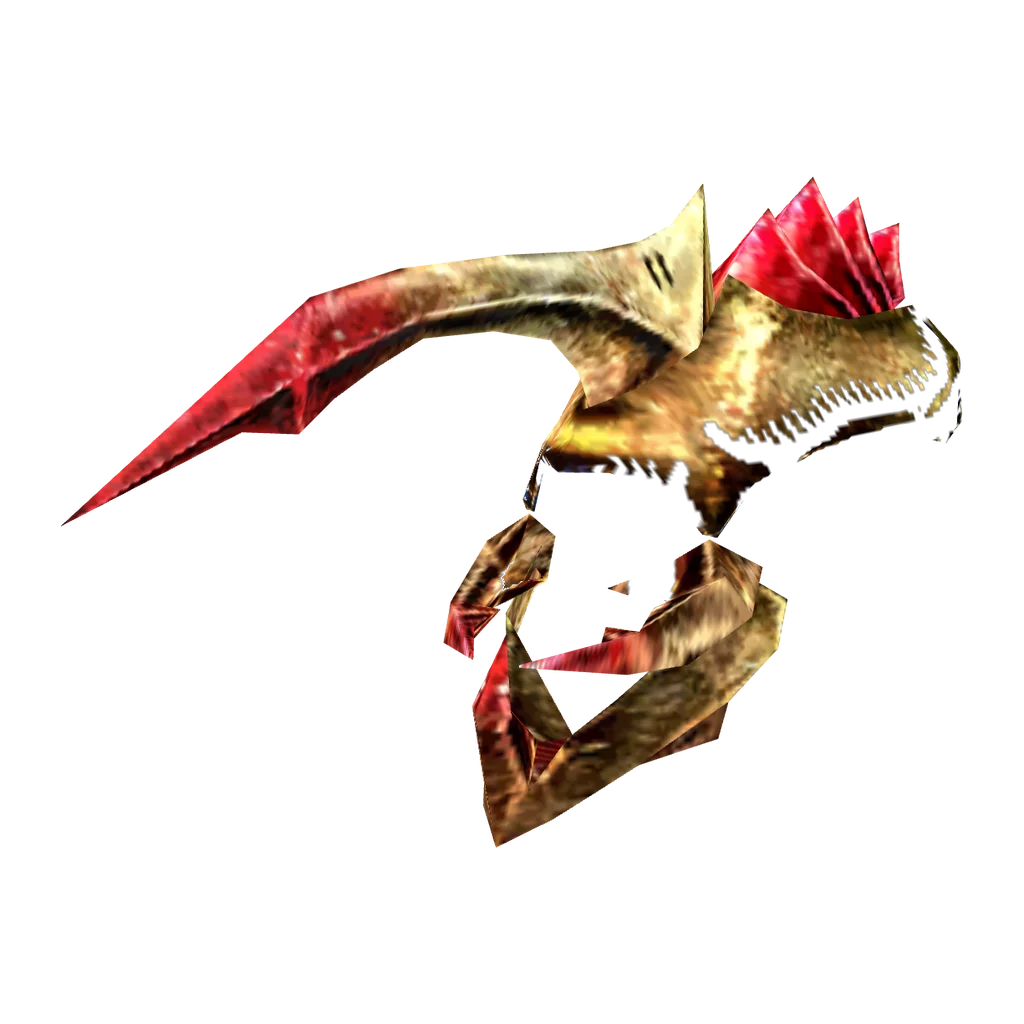
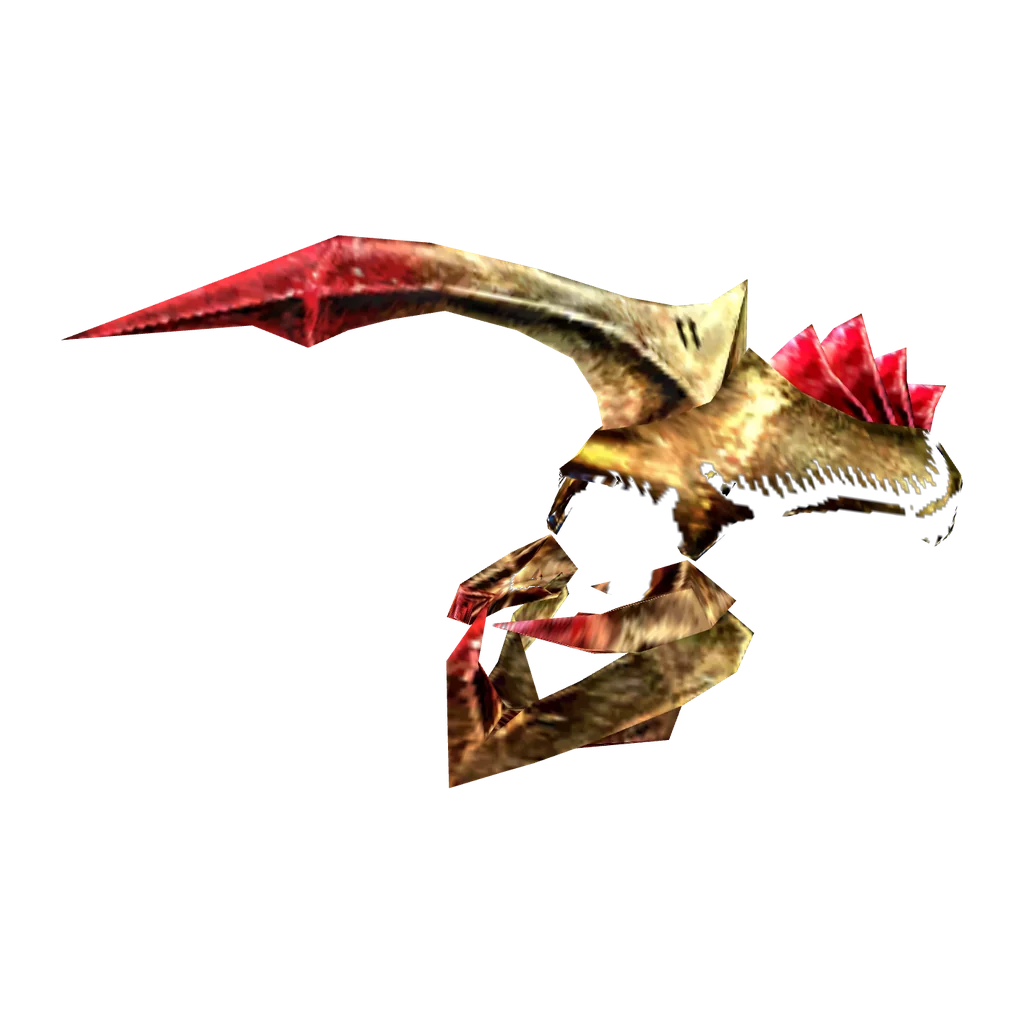
Render De Rol Le's shell at the body's angle

Changed region(s): [[0.0625, 0.1562, 0.9375, 0.8438]]

diff --git a/docs/MONSTER_CATALOG.md b/docs/MONSTER_CATALOG.md
@@ -340,7 +340,7 @@ did not re-evaluate tiers or change the in-game rotation.
 - 渲染：`npm run generate:monster-renders -- --harness-assets <phantasmal-world>/web/src/jsMain/resources/assets/npcs`（`scripts/render_monster_models.py`）先把档案条目提取到该目录的 `raw/`，再调用 `scripts/render_monster_models.mjs` 在无界面浏览器中驱动 phantasmal-world 的导出入口 `?npcBatch=1`（`window.__renderNpc`），用它自己的蒙皮与 NJM 动画转换摆姿势，分别在黑底与白底上渲染 2048 px；两图之差还原透明度，叠加发光材质保持半透明。结果裁切到模型、居中留边，输出 1024 px 与 160 px WebP，`manifest.json` 记录 SHA-256。该导出入口只存在于本机 phantasmal-world 工作副本，不属于其仓库；重新渲染前需在本机构建并以 `--harness` 指向它。
 - 姿势：默认用模型自己的待机动作（wait / stand / standby 等，Poison Lily 用张开的 `waito`）；EP4 首领一、二阶段分别用 `1st_standby` / `2nd_standby`。De Rol Le（含 Ultimate）用前进动作 `forward` 第 0 帧的伸展身体，模型绕 X 轴抬头 12°，从头部斜前方 45° 取景，与维护者提供的参考图一致。颈部 4 根触手是独立模型 `boss2_b_derorure_tentacle`，游戏运行时挂到本体头部骨骼下的 4 个空节点（骨骼 29–32）；`attach` 按骨骼编号把部件挂到摆好姿势的本体上，触手用自身摆动动作 `tloop` 第 16 帧（向后上方伸展）。Spinner 用 `standby`：其动作类型 `0x2005` 的四元数旋转位于缩放之前，phantasmal-world 原解析顺序（缩放在前）会读错，本机导出入口的构建修正了这一顺序。没有动作的模型用绑定姿势，Hildeblue 借用 Hildebear、Gobooma / Gigobooma 借用 Booma 的同骨架动作。Hidoom 以前的地面物件、Merissa A / AA、Pouilly Slime 的环境反射外壳在导出中会画成不透明色块，按材质序号隐藏。
 - 档案贴图：没有自带贴图包的模型按编号引用同一档案的贴图包（默认第一个，可用 `texture` 指定、`textureOrder` 重排）。提取时把 XVRT 块首尾相接重新打包，因为部分档案的块带对齐填充，顺序读取 IFF 的解析器会只读到第一张贴图；同名的模型与动作（如 `fs_obj_hiraishin_a.nj` / `.njm`）分开索引。解码后的 DXT 贴图使用线性过滤（与游戏一致，避免放大后的像素块）。
-- 组合与特殊材质：`parts` 在同一场景中叠加多个模型（Olga Flow (Form 1) 的本体 `bssgc_pf01_body` 与腿 `bossgc_pf01_leg`，均用空中待机 `skywait`；该姿势按倒挂制作，`rotate` 绕 X 轴翻转 180° 后从 270° 方向取景，剑朝下，与高清图一致；地面待机 `grdwait` 绕 Z 轴翻转 180° 的正面姿势作为 `alternates` 保留，详情页以“地面姿势”按钮切换，列表缩略图只用主渲染）。Bee / Gee 的 `re4_b_bit` 是没有纹理坐标的环境映射模型，`plainMaps` + `planarUv` 按正面投影纹理坐标，显示其漩涡纹理。De Rol Le (Shell) 用头部骨盔 `boss2_b_helm_break`（与 Wiki 截图一致），Ultimate 取 `_a` 档案。
+- 组合与特殊材质：`parts` 在同一场景中叠加多个模型（Olga Flow (Form 1) 的本体 `bssgc_pf01_body` 与腿 `bossgc_pf01_leg`，均用空中待机 `skywait`；该姿势按倒挂制作，`rotate` 绕 X 轴翻转 180° 后从 270° 方向取景，剑朝下，与高清图一致；地面待机 `grdwait` 绕 Z 轴翻转 180° 的正面姿势作为 `alternates` 保留，详情页以“地面姿势”按钮切换，列表缩略图只用主渲染）。Bee / Gee 的 `re4_b_bit` 是没有纹理坐标的环境映射模型，`plainMaps` + `planarUv` 按正面投影纹理坐标，显示其漩涡纹理。De Rol Le (Shell) 用头部骨盔 `boss2_b_helm_break`（与 Wiki 截图一致），Ultimate 取 `_a` 档案；骨盔与本体共用模型坐标，沿用本体的机位（绕 X 轴抬头 12°、斜前方 45°），骷髅头朝左，与 De Rol Le 本体图同向。
 - 未覆盖（5 个条目，保持高清图库或 Wiki 图片）：Vol Opt (Form 1)（参考图是整面墙）与 (Monitor)（屏幕上 Vol Opt 的脸是战斗中的实时画面，模型贴图只有文字）、De Rol Le (Mine)（候选模型与参考不符）、Nar Lily ×2（红色贴图未找到）。Death Gunner 目前与 Dark Gunner 使用同一贴图，客户端档案中没有找到其独立配色；Epsigard 使用 `re6_b_claw_body` 自带的红白贴图，比游戏截图多出白色区域。
 
 ## 高清怪物素材
